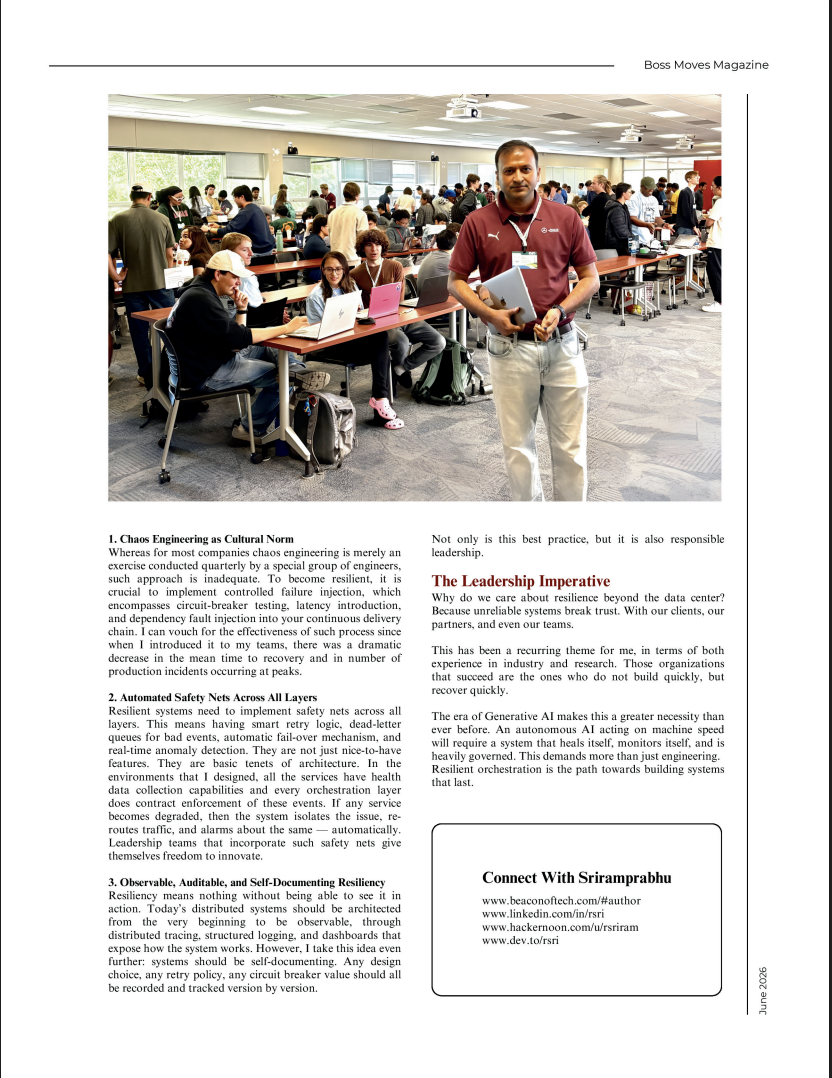
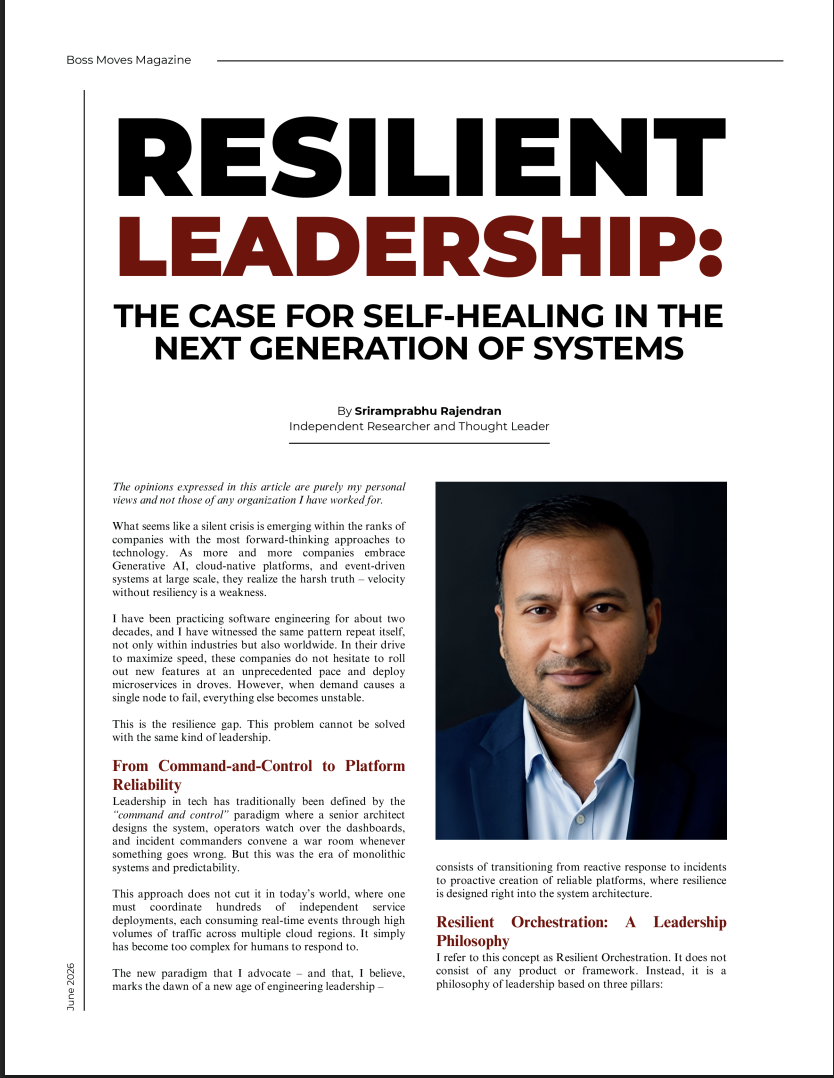
media

diff --git a/sriram-rajendran/index.html b/sriram-rajendran/index.html
@@ -2146,7 +2146,7 @@
         // Load credentials into grid
         async function loadCredentialsGrid() {
             const grid = document.getElementById('credentialsGrid');
-            const categories = ['research', 'patents', 'speaking', 'judging', 'recognition', 'volunteering'];
+            const categories = ['research', 'patents', 'speaking', 'judging', 'recognition', 'volunteering', 'media'];
             
             for (const category of categories) {
                 const folderPath = `../assets/credentials/${category}/`;
